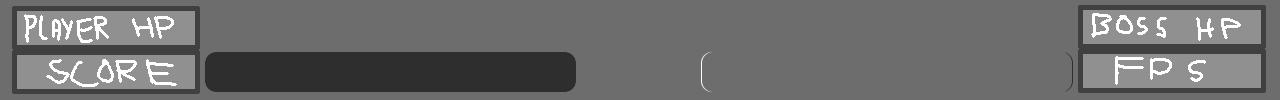
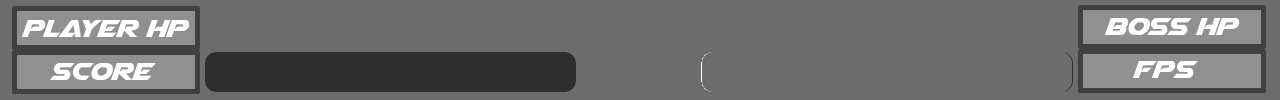
UI muokkauksia

diff --git a/src/main/java/view/GameMain.java b/src/main/java/view/GameMain.java
@@ -127,7 +127,7 @@ public class GameMain extends Application implements View {
         } else{
             debugger_fps.setTextFill(Color.web("#ffffff"));//valkone
         }
-        debugger_fps.setText("mainLoop frames in last sec: " + fps);
+        debugger_fps.setText(String.valueOf(fps));
     }
 
     // ------ Debugger
@@ -161,7 +161,7 @@ public class GameMain extends Application implements View {
 
     @Override
     public void setScore(int score) {
-        this.score.setText("Score: " + score);
+        this.score.setText(String.valueOf(score));
         this.score.toFront();
     }
 
@@ -317,7 +317,10 @@ public class GameMain extends Application implements View {
         ft.setToValue(1.0);
         ft.play();
 
-        score = new Label("Score: " + controller.getScore());
+        score = new Label(String.valueOf(controller.getScore()));
+        score.setTextFill(Color.WHITE);
+        score.setLayoutX(210);
+        score.setLayoutY(51);
         score.setFont(new Font("Cambria", 32));
 
         GameBackground gmg = new GameBackground(controller);
@@ -329,15 +332,16 @@ public class GameMain extends Application implements View {
         //---------------- debugger
         if(debuggerToolsEnabled) {
             debugger_fps = new Label("fps");
-            debugger_fps.setFont(new Font("Cambria", 16));
-            debugger_fps.setLayoutX(250);
+            debugger_fps.setFont(new Font("Cambria", 32));
+            debugger_fps.setLayoutX(1010);
+            debugger_fps.setLayoutY(51);
             uiPane.getChildren().add(debugger_fps);
 
 
-            debugger_currentFps = new Label("currentFps");
+          /*  debugger_currentFps = new Label("currentFps");
             debugger_currentFps.setFont(new Font("Cambria", 16));
             debugger_currentFps.setLayoutX(540);
-            uiPane.getChildren().add(debugger_currentFps);
+            uiPane.getChildren().add(debugger_currentFps);*/
         }
 
         // Aseiden lisäys komponentteihin, jotta aseet näkyvissä

diff --git a/src/main/java/model/GameLoop.java b/src/main/java/model/GameLoop.java
@@ -127,7 +127,7 @@ public class GameLoop {
                 double deltaTime = ((now - lastUpdate) / 1_000_000_000.0) * pauseModifier;
                 // jos taajuus on alhaisempi kuin asetettu taajuusrajagappi (250 fps)
                 if ((double)(now - lastUpdate)/1_000_000_000.0 >= 1.0/250.0) {
-                    controller.setCurrentFps(1/((now - lastUpdate)/1000000000.0));
+                   // controller.setCurrentFps(1/((now - lastUpdate)/1000000000.0));
                     // Tarkista updateable -jono
                     if (!updateableQueue.isEmpty()) {
                         updateables.addAll(updateableQueue);

diff --git a/src/main/java/model/level/LevelN.java b/src/main/java/model/level/LevelN.java
@@ -185,10 +185,7 @@ public class LevelN extends Thread implements Level {
                     }
                 }
             }
-            // Levelin viholliset spawnattu, venataan vähän aikaa ennen levelin loppumista
 
-            System.out.println("Voitit tason " + (levelNumber) + "!");
-            Platform.runLater(() -> controller.addScore(500));
 
             // Ilmoita levelin loppumisesta
             Platform.runLater(() -> controller.returnToMain());
